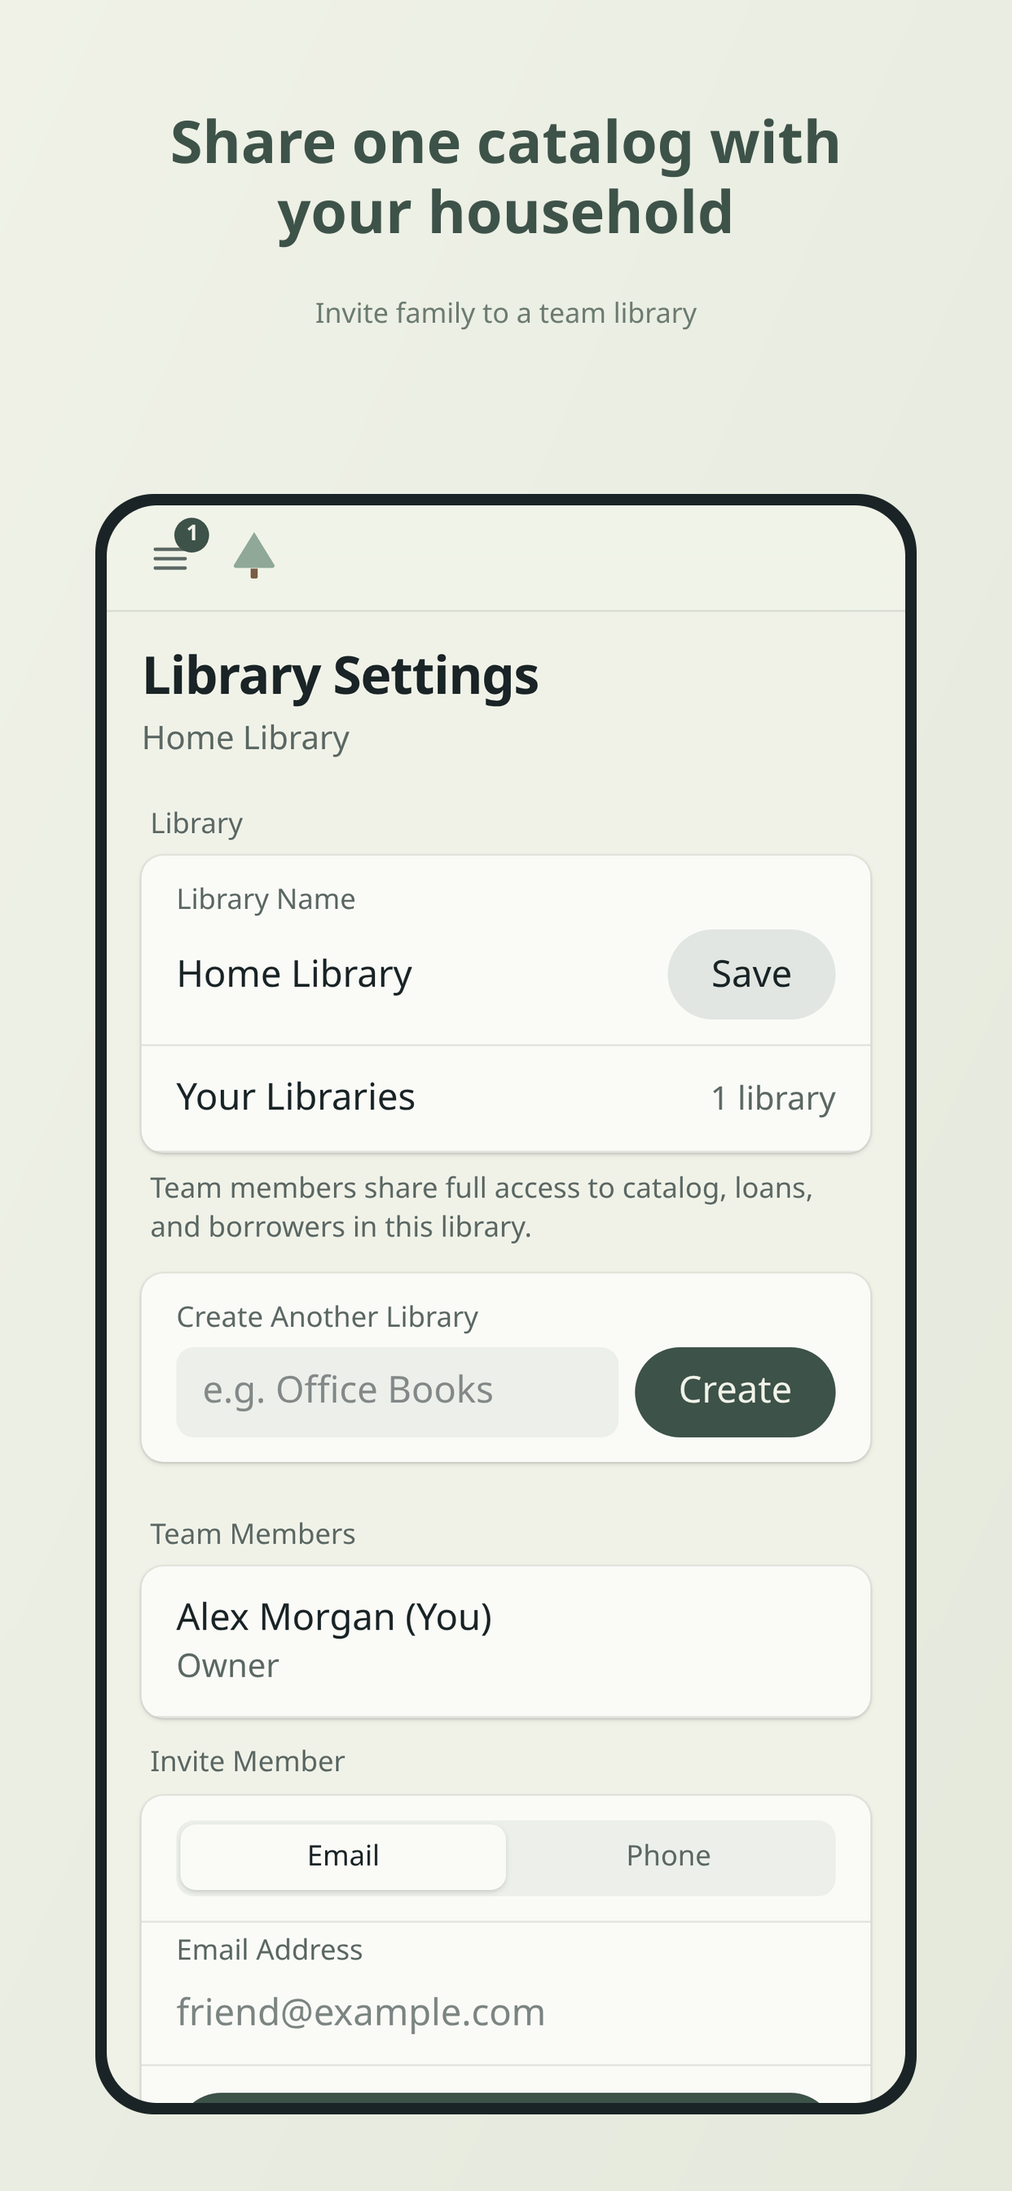
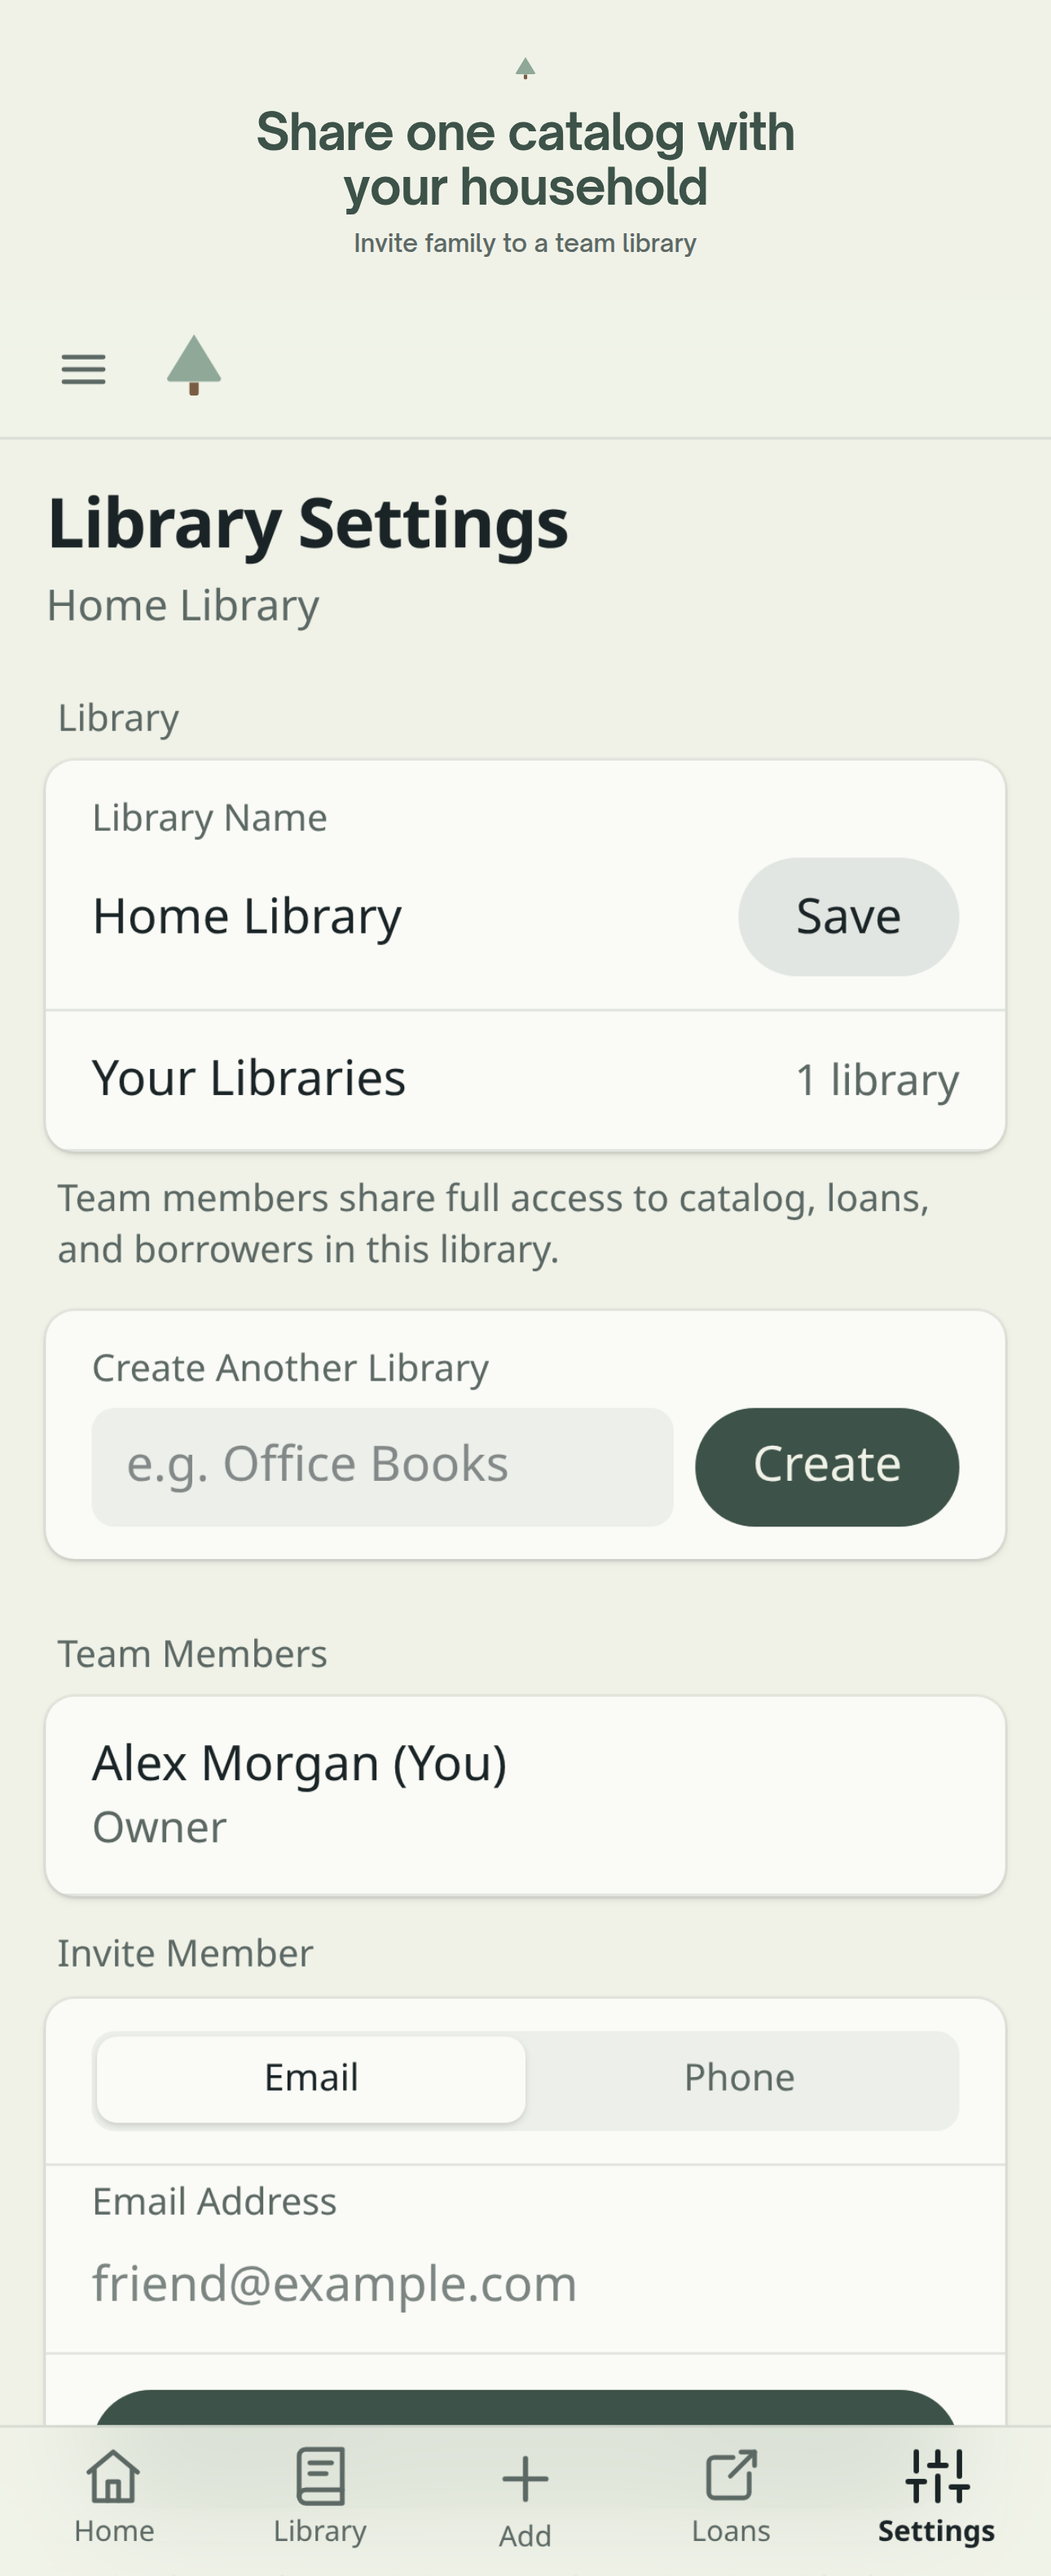
Fix App Store mockups to show undistorted live UI
Capture at exact iPhone viewport (1170×2532), keep the screenshot
pixel-intact under marketing copy (no crop/phone chrome overlay), and
render headlines with Open Sauce Sans in Chromium like the app.

diff --git a/marketing/app-store/README.md b/marketing/app-store/README.md
@@ -1,11 +1,11 @@
 # App Store screenshots
 
-Generated from the **live app** (`https://shelfielibrary.netlify.app`) — real UI captures, not AI mock UIs.
+Pixel-accurate captures from the live Pine Bookkeeping UI (`https://shelfielibrary.netlify.app`),
+composed with marketing copy. Screenshots are **not cropped** — phone slot
+matches the capture aspect ratio exactly.
 
-- `appstore-*.png` — store frames with marketing copy around a phone bezel
-- `raw/` — unmodified screenshots from the running product
-
-Regenerate after seeding a demo account:
+- `appstore-*.png` — store frames (Open Sauce Sans + brand palette)
+- `raw/` — unmodified device screenshots (1170×2532)
 
 ```bash
 node scripts/appstore-screenshots.mjs
